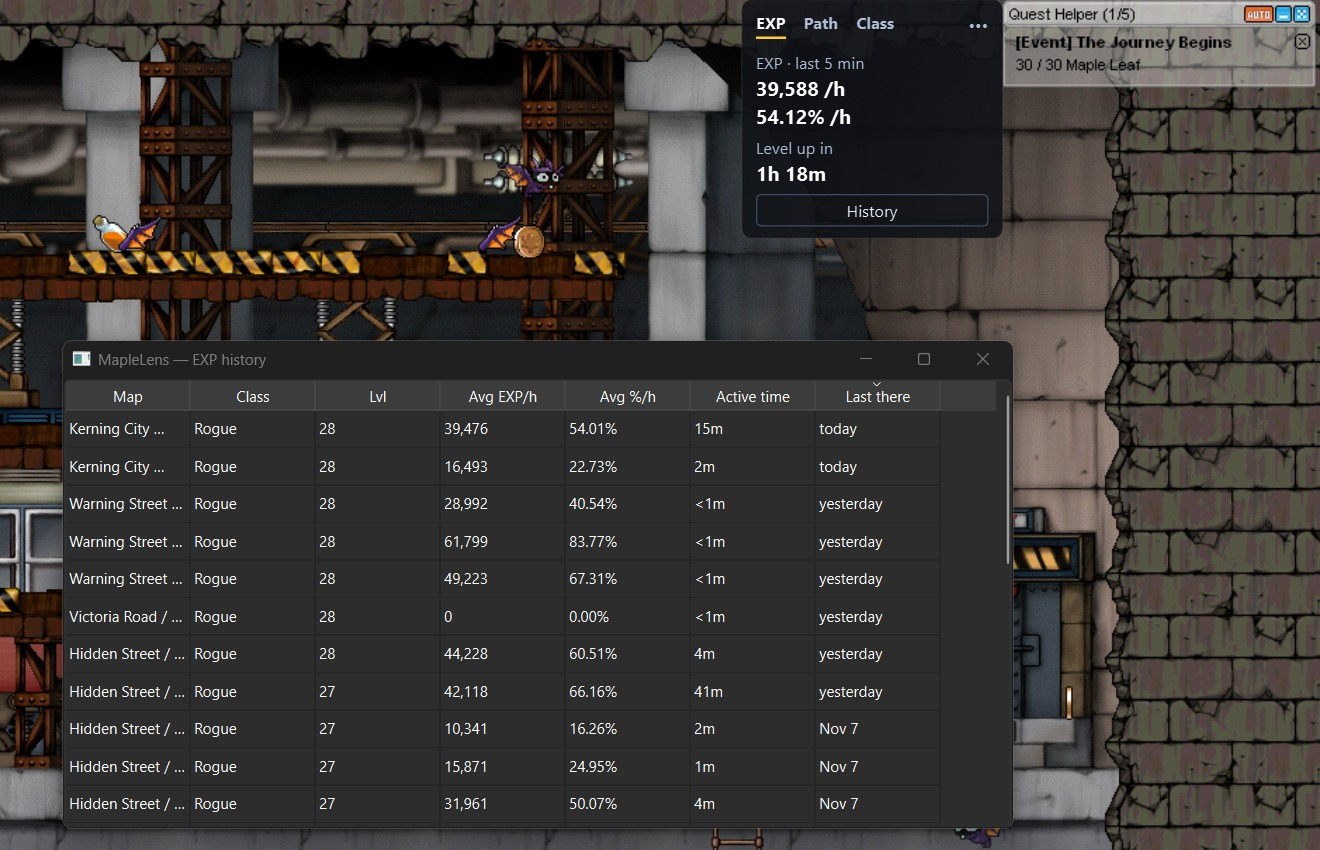
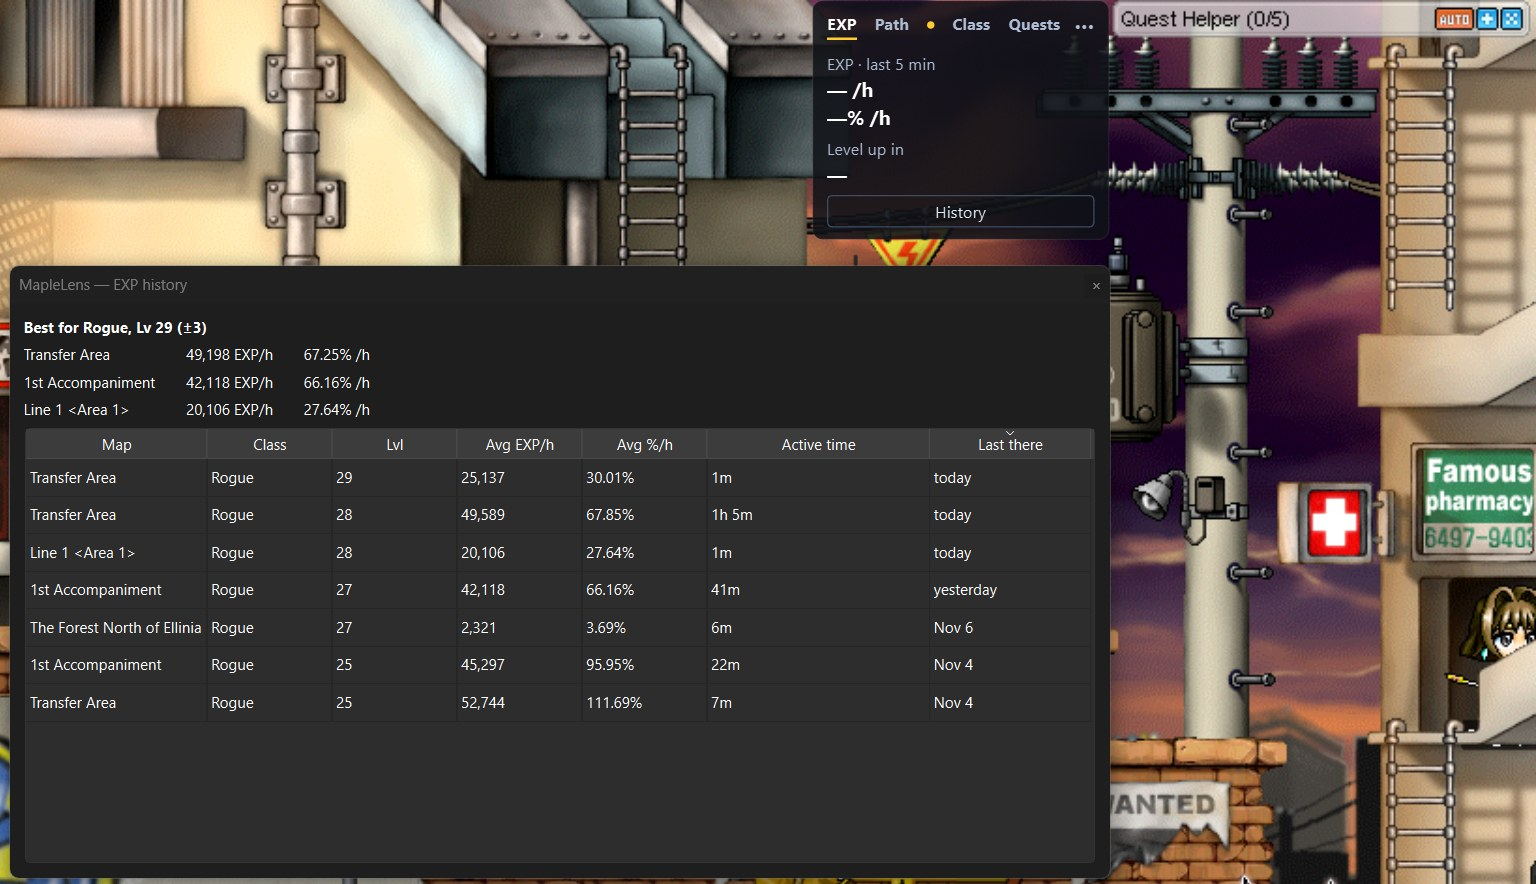
docs: a new EXP shot with History over the game

diff --git a/README.md b/README.md
@@ -14,7 +14,7 @@ over your character points to the next portal.
 **EXP meter:** your EXP per hour and time to level, live. History keeps the average for
 every map you've trained on.
 
-![The EXP tab showing 39,588 EXP an hour and level up in 1h 18m, with the History window listing average EXP per hour for each map](docs/screenshots/exp.jpg)
+![The History window over the game: the best maps for a level 29 Rogue, with Transfer Area at 49,198 EXP an hour, above the average EXP per hour for each map, class and level. The EXP tab above it waits for the next kill](docs/screenshots/exp.jpg)
 
 **Class helper:** where to train for your class and level, with your best spot first and
 one click to set a route there, plus what comes next: job advancement, gear and stats.
